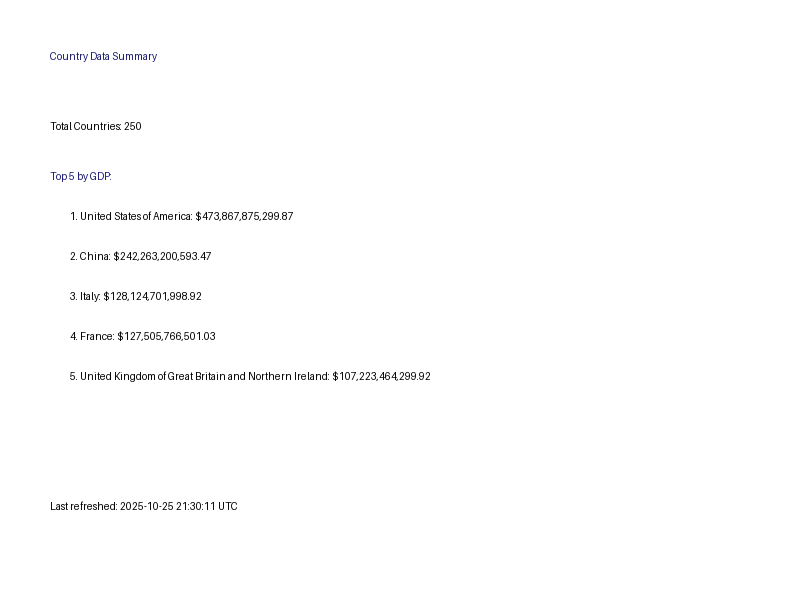
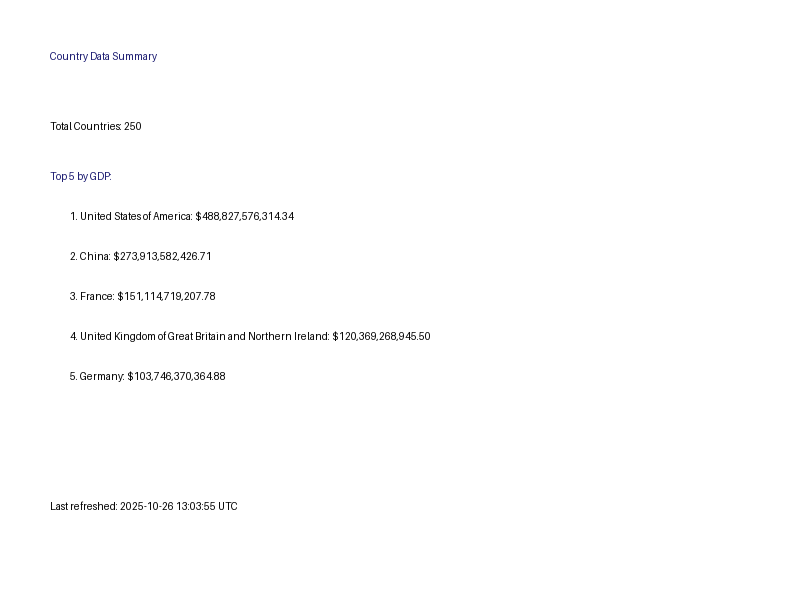
GDP Sorting Error, handle both GET and DELETE fixes

diff --git a/countries/views.py b/countries/views.py
@@ -1,8 +1,8 @@
 from rest_framework import status
 from rest_framework.decorators import api_view
 from rest_framework.response import Response
-from django.http import FileResponse, Http404
-from django.db.models import Q
+from django.http import FileResponse
+from django.db.models import F
 from .models import Country
 from .serializers import CountrySerializer, CountryFilterSerializer
 from .services import CountryService, ExternalAPIError
@@ -12,21 +12,13 @@ import os
 
 @api_view(['POST'])
 def refresh_countries(request):
-    """
-    POST /countries/refresh
-    
-    Fetches all countries and exchange rates, then caches them in database.
-    Also generates summary image.
-    """
+    """POST /countries/refresh"""
     try:
-        # Refresh data
         result = CountryService.refresh_countries()
         
-        # Generate image
         try:
             ImageGenerator.generate_summary_image()
         except Exception as e:
-            # Log error but don't fail the request
             print(f"Image generation failed: {e}")
         
         return Response({
@@ -52,17 +44,7 @@ def refresh_countries(request):
 
 @api_view(['GET'])
 def list_countries(request):
-    """
-    GET /countries
-    
-    Get all countries with optional filtering and sorting.
-    
-    Query parameters:
-    - region: Filter by region (e.g., ?region=Africa)
-    - currency: Filter by currency code (e.g., ?currency=NGN)
-    - sort: Sort results (e.g., ?sort=gdp_desc)
-    """
-    # Validate query parameters
+    """GET /countries with filters and sorting"""
     filter_serializer = CountryFilterSerializer(data=request.query_params)
     if not filter_serializer.is_valid():
         return Response({
@@ -70,10 +52,7 @@ def list_countries(request):
             'details': filter_serializer.errors
         }, status=status.HTTP_400_BAD_REQUEST)
     
-    # Start with all countries
     queryset = Country.objects.all()
-    
-    # Apply filters
     validated_data = filter_serializer.validated_data
     
     if 'region' in validated_data:
@@ -82,54 +61,44 @@ def list_countries(request):
     if 'currency' in validated_data:
         queryset = queryset.filter(currency_code__iexact=validated_data['currency'])
     
-    # Apply sorting
+    # FIX: Handle NULL values in GDP sorting
     if 'sort' in validated_data:
         sort_param = validated_data['sort']
-        sort_mapping = {
-            'gdp_asc': 'estimated_gdp',
-            'gdp_desc': '-estimated_gdp',
-            'population_asc': 'population',
-            'population_desc': '-population',
-            'name_asc': 'name',
-            'name_desc': '-name'
-        }
-        queryset = queryset.order_by(sort_mapping[sort_param])
+        
+        if sort_param == 'gdp_desc':
+            queryset = queryset.order_by(F('estimated_gdp').desc(nulls_last=True))
+        elif sort_param == 'gdp_asc':
+            queryset = queryset.order_by(F('estimated_gdp').asc(nulls_last=True))
+        elif sort_param == 'population_desc':
+            queryset = queryset.order_by('-population')
+        elif sort_param == 'population_asc':
+            queryset = queryset.order_by('population')
+        elif sort_param == 'name_desc':
+            queryset = queryset.order_by('-name')
+        elif sort_param == 'name_asc':
+            queryset = queryset.order_by('name')
     
-    # Serialize and return
     serializer = CountrySerializer(queryset, many=True)
     return Response(serializer.data, status=status.HTTP_200_OK)
 
 
-@api_view(['GET'])
-def get_country(request, name):
-    """
-    GET /countries/:name
-    
-    Get a single country by name (case-insensitive).
-    """
+@api_view(['GET', 'DELETE'])
+def country_detail(request, name):
+    """GET or DELETE /countries/:name"""
     try:
         country = Country.objects.get(name__iexact=name)
-        serializer = CountrySerializer(country)
-        return Response(serializer.data, status=status.HTTP_200_OK)
-    except Country.DoesNotExist:
-        return Response({
-            'error': 'Country not found'
-        }, status=status.HTTP_404_NOT_FOUND)
-
-
-@api_view(['DELETE'])
-def delete_country(request, name):
-    """
-    DELETE /countries/:name
+        
+        if request.method == 'GET':
+            serializer = CountrySerializer(country)
+            return Response(serializer.data, status=status.HTTP_200_OK)
+        
+        elif request.method == 'DELETE':
+            country_name = country.name
+            country.delete()
+            return Response({
+                'message': f'Country "{country_name}" deleted successfully'
+            }, status=status.HTTP_200_OK)
     
-    Delete a country by name (case-insensitive).
-    """
-    try:
-        country = Country.objects.get(name__iexact=name)
-        country.delete()
-        return Response({
-            'message': f'Country "{name}" deleted successfully'
-        }, status=status.HTTP_200_OK)
     except Country.DoesNotExist:
         return Response({
             'error': 'Country not found'
@@ -138,14 +107,8 @@ def delete_country(request, name):
 
 @api_view(['GET'])
 def get_status(request):
-    """
-    GET /status
-    
-    Show total countries and last refresh timestamp.
-    """
+    """GET /status"""
     total_countries = Country.objects.count()
-    
-    # Get the most recent refresh time
     latest_country = Country.objects.order_by('-last_refreshed_at').first()
     last_refreshed = latest_country.last_refreshed_at if latest_country else None
     
@@ -157,11 +120,7 @@ def get_status(request):
 
 @api_view(['GET'])
 def get_summary_image(request):
-    """
-    GET /countries/image
-    
-    Serve the generated summary image.
-    """
+    """GET /countries/image"""
     image_path = ImageGenerator.get_image_path()
     
     if not os.path.exists(image_path):

diff --git a/countries/services.py b/countries/services.py
@@ -69,31 +69,22 @@ class CountryService:
             raise ExternalAPIError(f"Could not fetch data from Exchange Rate API: {str(e)}")
     
     @staticmethod
-    def calculate_estimated_gdp(
-        population: int,
-        exchange_rate: Optional[Decimal]
-    ) -> Optional[Decimal]:
-        """
-        Calculate estimated GDP using the formula:
-        GDP = population × random(1000-2000) ÷ exchange_rate
-        
-        Args:
-            population: Country population
-            exchange_rate: Currency exchange rate (or None)
-            
-        Returns:
-            Estimated GDP as Decimal, or None if calculation not possible
-        """
+    def calculate_estimated_gdp(population: int,
+    exchange_rate: Optional[Decimal]) -> Optional[Decimal]:
+        """Calculate estimated GDP with proper error handling"""
         if not exchange_rate or exchange_rate == 0:
             return None
-        
-        # Generate random multiplier between 1000 and 2000
+        # FIX: Ensure population is valid
+        try:
+            population = int(population)
+            if population <= 0:
+                return None
+        except (TypeError, ValueError):
+            return None
+            
         multiplier = random.uniform(1000, 2000)
-        
-        # Calculate: population × multiplier ÷ exchange_rate
         gdp = Decimal(str(population)) * Decimal(str(multiplier)) / exchange_rate
-        
-        # Round to 2 decimal places
+
         return gdp.quantize(Decimal('0.01'))
     
     @staticmethod

diff --git a/countries/urls.py b/countries/urls.py
@@ -3,8 +3,7 @@ from . import views
 
 urlpatterns = [
     path('refresh', views.refresh_countries, name='refresh-countries'),
+    path('image', views.get_summary_image, name='get-summary-image'),  # Before <str:name>
     path('', views.list_countries, name='list-countries'),
-    path('image', views.get_summary_image, name='get-summary-image'),
-    path('<str:name>', views.get_country, name='get-country'),
-    path('<str:name>/delete', views.delete_country, name='delete-country'),
+    path('<str:name>', views.country_detail, name='country-detail'),  # Handles GET and DELETE
 ]
